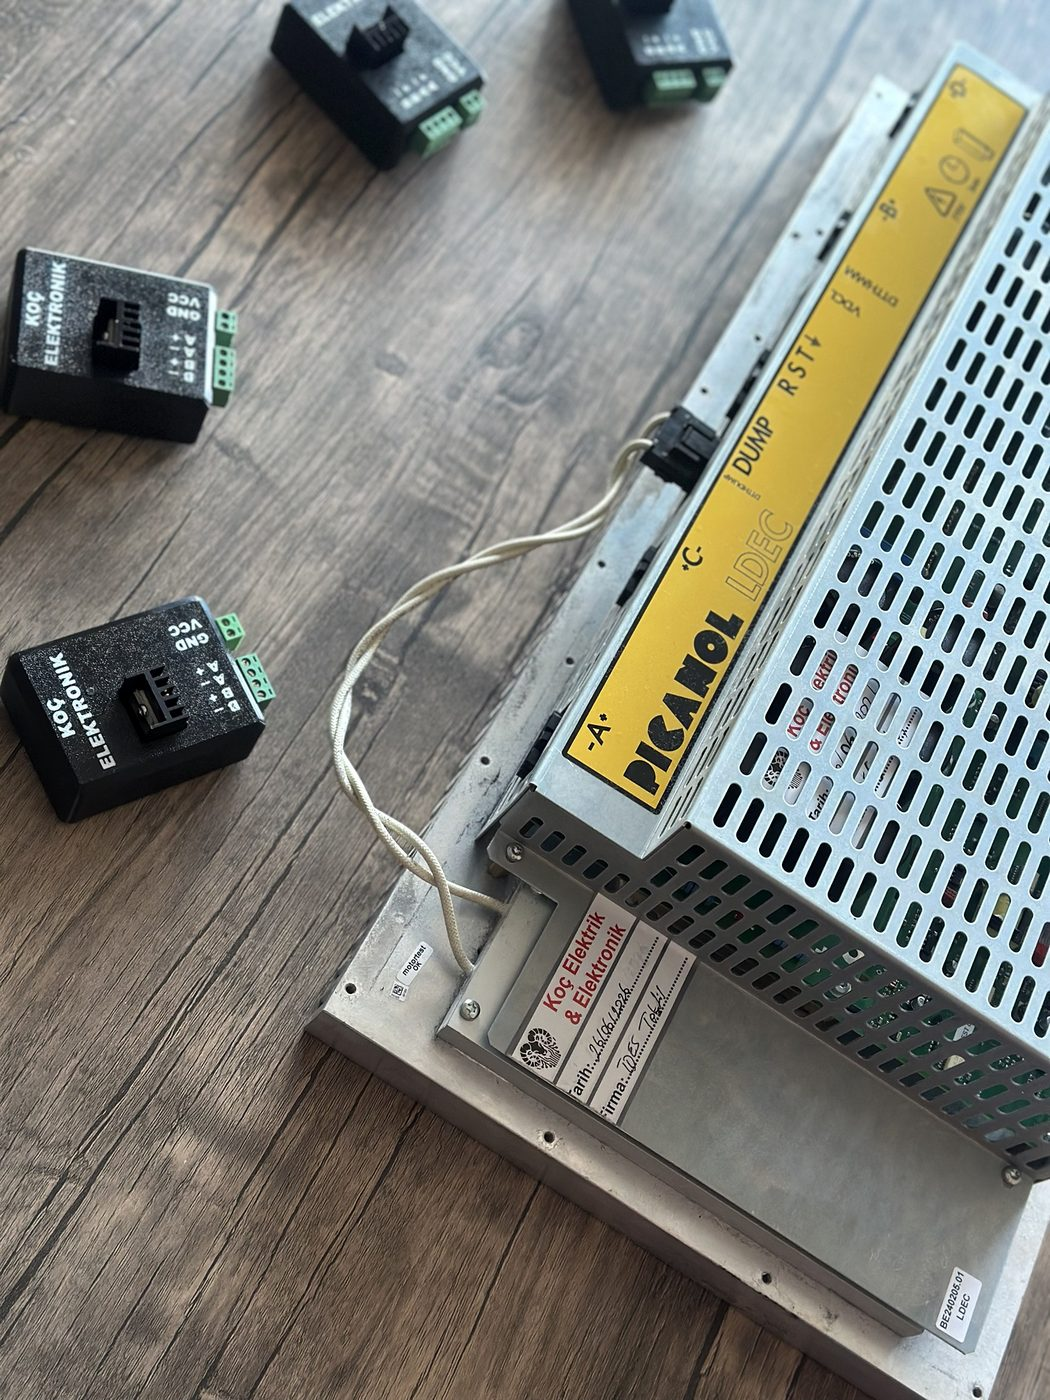
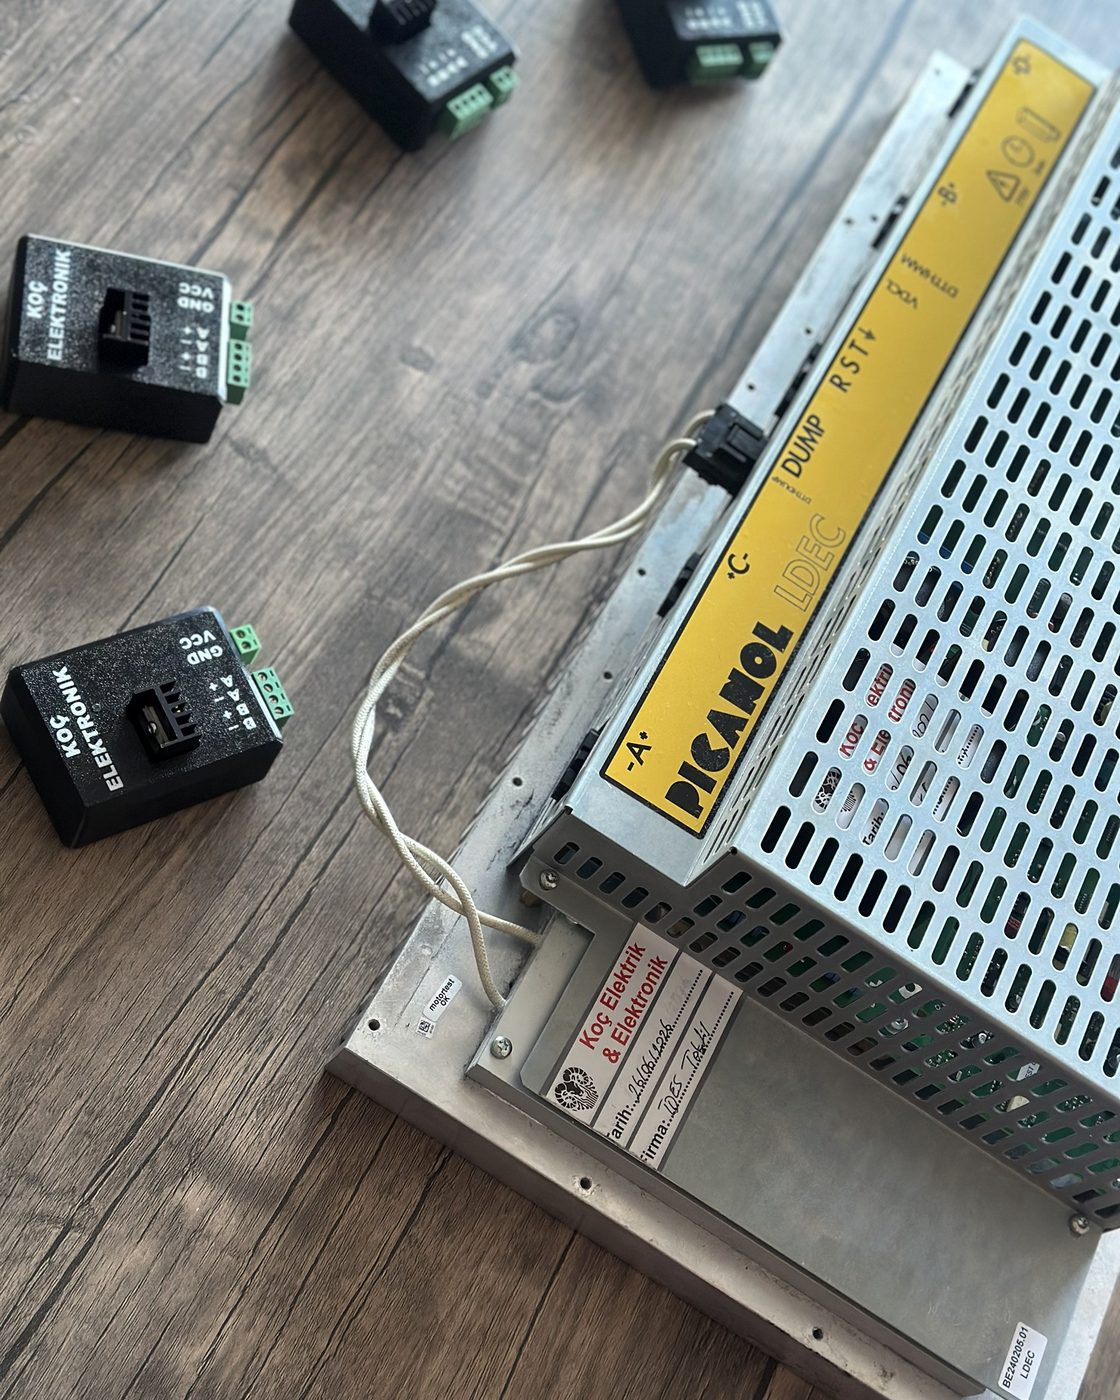
Atölye fotoğraflarını kartlar öne çıkacak şekilde kadrajla
- Fazla zemin, duvar ve boşluklar kırpıldı; kart ve üniteler kadrajı
  dolduruyor. Logo ve marka yazıları için kırpma yapılmadı.
- Galeri düzeni: üç dikey (4:5) görsel, altında geniş test-teslim
  görseli ve pano; görseller kendi oranında tam görünüyor.

Claude-Session: https://claude.ai/code/session_01WKXf7C5PrXrh8BrdM1Bq77

diff --git a/index.html b/index.html
@@ -669,18 +669,17 @@ body{letter-spacing:-.011em}
 
 /* Atölyeden galerisi */
 .atolye{background:var(--bg2)}
-.ag{display:grid;grid-template-columns:1.25fr 1fr 1fr;grid-auto-rows:minmax(0,auto);gap:36px 28px}
+.ag{display:grid;grid-template-columns:repeat(3,1fr);gap:40px 28px;align-items:start}
 .ag figure{margin:0}
-.ag-img{overflow:hidden;border-radius:var(--r);background:#0F0F10;aspect-ratio:4/5}
-.ag-img img{display:block;width:100%;height:100%;object-fit:cover;transition:transform 1.2s cubic-bezier(.2,.7,.2,1)}
+.ag-img{overflow:hidden;border-radius:var(--r);background:#0F0F10}
+.ag-img img{display:block;width:100%;height:auto;transition:transform 1.2s cubic-bezier(.2,.7,.2,1)}
 @media (hover:hover){.ag figure:hover .ag-img img{transform:scale(1.03)}}
-.ag-big{grid-row:span 2}
-.ag-big .ag-img{aspect-ratio:auto;height:calc(100% - 118px);min-height:420px}
+.ag-wide{grid-column:span 2}
 .ag figcaption{margin-top:16px;padding-top:16px;border-top:2px solid var(--rule)}
 .ag .n{display:block;font-size:13px;font-weight:600;letter-spacing:.08em;color:var(--kicker)}
 .ag b{display:block;font-size:18px;font-weight:600;margin-top:6px}
 .ag figcaption > span:last-child{display:block;font-size:15px;color:var(--text2);margin-top:4px}
-@media (max-width:900px){.ag{grid-template-columns:1fr 1fr}.ag-big{grid-column:1/-1;grid-row:auto}.ag-big .ag-img{height:auto;aspect-ratio:4/5;min-height:0}}
+@media (max-width:900px){.ag{grid-template-columns:1fr 1fr}.ag-wide{grid-column:1/-1}}
 @media (max-width:520px){.ag{grid-template-columns:1fr}}
 .own{grid-template-columns:minmax(0,1.25fr) minmax(0,1fr)!important;align-items:center!important}
 .own-img img{width:100%!important;max-width:620px}
@@ -997,24 +996,24 @@ body{letter-spacing:-.011em}
         <p>Onarıma gelen her kart ve ünite servis etiketiyle kayda alınır, test edilir ve teslime hazırlanır.</p>
       </div>
       <div class="ag">
-        <figure class="ag-big rv">
-          <div class="ag-img"><picture><source srcset="assets/foto/surucu-moduller.webp" type="image/webp"><img src="assets/foto/surucu-moduller.jpg" width="1050" height="1400" alt="Onarımı tamamlanmış sürücü ünitesi ve Koç Elektronik sürücü modülleri" loading="lazy"></picture></div>
+        <figure class="rv">
+          <div class="ag-img"><picture><source srcset="assets/foto/surucu-moduller.webp" type="image/webp"><img src="assets/foto/surucu-moduller.jpg" width="1120" height="1400" alt="Onarımı tamamlanmış sürücü ünitesi ve Koç Elektronik sürücü modülleri" loading="lazy"></picture></div>
           <figcaption><span class="n">01</span><b>Onarılan sürücü ünitesi</b><span>Onarımı tamamlanan sürücü ünitesi ve Koç Elektronik sürücü modülleri.</span></figcaption>
         </figure>
-        <figure class=" rv">
-          <div class="ag-img"><picture><source srcset="assets/foto/etiket.webp" type="image/webp"><img src="assets/foto/etiket.jpg" width="1050" height="1400" alt="Onarılan kart üzerinde Koç Elektronik servis etiketi" loading="lazy"></picture></div>
+        <figure class="rv">
+          <div class="ag-img"><picture><source srcset="assets/foto/etiket.webp" type="image/webp"><img src="assets/foto/etiket.jpg" width="1120" height="1400" alt="Onarılan kart üzerinde Koç Elektronik servis etiketi" loading="lazy"></picture></div>
           <figcaption><span class="n">02</span><b>Servis etiketi</b><span>Her kart, tarih ve firma bilgisiyle etiketlenerek kayda alınır.</span></figcaption>
         </figure>
-        <figure class=" rv">
-          <div class="ag-img"><picture><source srcset="assets/foto/test-ok.webp" type="image/webp"><img src="assets/foto/test-ok.jpg" width="1400" height="1050" alt="Motor testi yapılmış ve etiketlenmiş sürücü ünitesi" loading="lazy"></picture></div>
-          <figcaption><span class="n">03</span><b>Test ve teslim</b><span>Motor testi yapılan ünite, etiketlenerek teslime hazırlanır.</span></figcaption>
+        <figure class="rv">
+          <div class="ag-img"><picture><source srcset="assets/foto/masa.webp" type="image/webp"><img src="assets/foto/masa.jpg" width="1121" height="1400" alt="Atölyede onarım ve test sırasındaki elektronik kartlar" loading="lazy"></picture></div>
+          <figcaption><span class="n">03</span><b>Atölye</b><span>Onarım ve test sırasındaki kontrol, güç ve sürücü kartları.</span></figcaption>
         </figure>
-        <figure class=" rv">
-          <div class="ag-img"><picture><source srcset="assets/foto/masa.webp" type="image/webp"><img src="assets/foto/masa.jpg" width="1050" height="1400" alt="Atölyede onarım ve test sırasındaki elektronik kartlar" loading="lazy"></picture></div>
-          <figcaption><span class="n">04</span><b>Atölye</b><span>Onarım ve test sırasındaki kontrol, güç ve sürücü kartları.</span></figcaption>
+        <figure class="ag-wide rv">
+          <div class="ag-img"><picture><source srcset="assets/foto/test-ok.webp" type="image/webp"><img src="assets/foto/test-ok.jpg" width="1400" height="840" alt="Motor testi yapılmış ve etiketlenmiş sürücü ünitesi" loading="lazy"></picture></div>
+          <figcaption><span class="n">04</span><b>Test ve teslim</b><span>Motor testi yapılan ünite, etiketlenerek teslime hazırlanır.</span></figcaption>
         </figure>
-        <figure class=" rv">
-          <div class="ag-img"><picture><source srcset="assets/foto/pano.webp" type="image/webp"><img src="assets/foto/pano.jpg" width="787" height="1400" alt="Endüstriyel elektrik panosu" loading="lazy"></picture></div>
+        <figure class="rv">
+          <div class="ag-img"><picture><source srcset="assets/foto/pano.webp" type="image/webp"><img src="assets/foto/pano.jpg" width="1120" height="1400" alt="Endüstriyel elektrik panosu" loading="lazy"></picture></div>
           <figcaption><span class="n">05</span><b>Pano kontrolleri</b><span>Pano, besleme ve bağlantı kontrolleri.</span></figcaption>
         </figure>
       </div>
